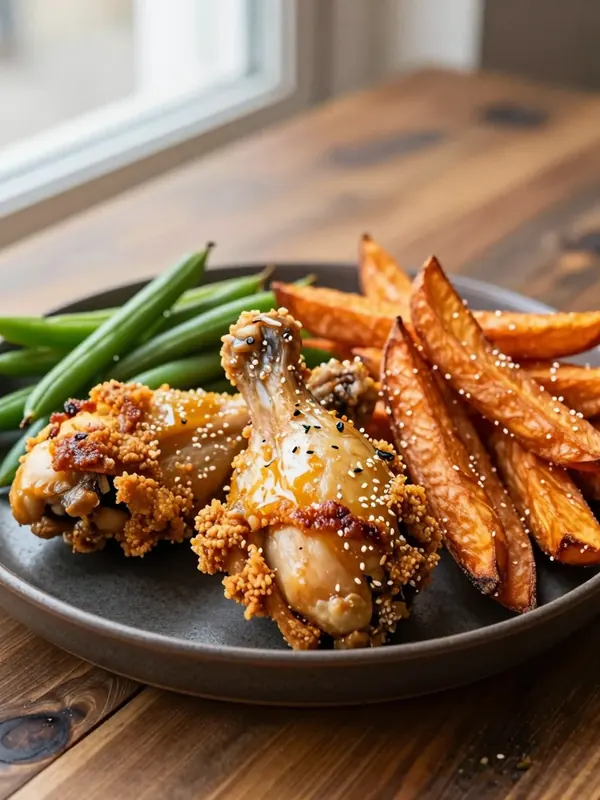
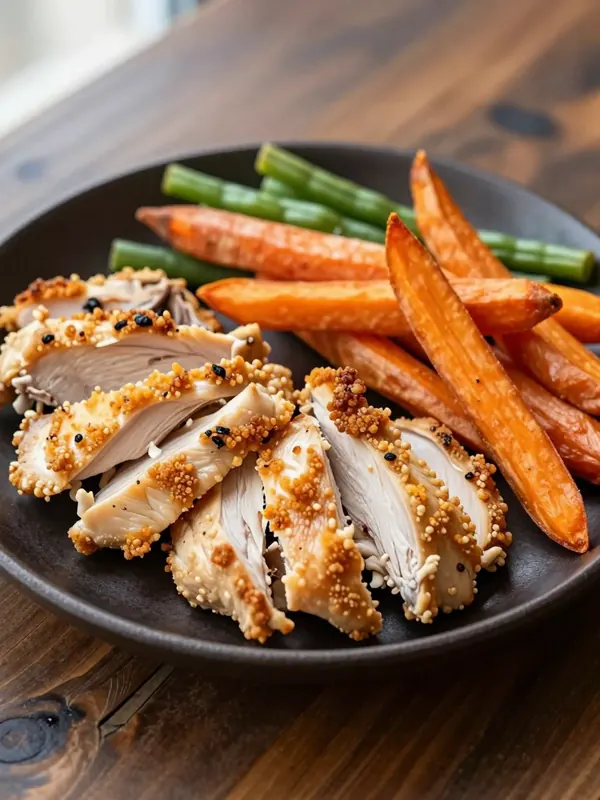
Zwei Food-Fotos neu: Eiermuffins und Hähnchen mit Süßkartoffel
Eiermuffins jetzt ohne Teigrand in Silikonförmchen, Hähnchen als Streifen
ohne Knochen. Offline-Speicher auf Version 3, damit Handys die Bilder neu laden.

diff --git a/sw.js b/sw.js
@@ -1,6 +1,6 @@
 // Offline-Speicher. Bei jeder Änderung an der App die Versionsnummer erhöhen,
 // sonst bekommen installierte Handys die neuen Dateien nicht.
-const CACHE = 'projekt100-v2';
+const CACHE = 'projekt100-v3';
 const CORE = [
   './',
   './index.html',

diff --git a/tools/make_images.py b/tools/make_images.py
@@ -32,7 +32,7 @@ DISHES = {
     "shake_fruehstueck": "a tall glass of creamy vanilla protein milkshake next to a whole banana",
     "overnight_oats": "a glass jar of overnight oats layered with white skyr yogurt and mixed berries",
     "ruehrei_brot": "scrambled eggs with wilted spinach on a plate with two slices of whole grain bread",
-    "eiermuffins": "baked egg muffins with diced red and yellow bell pepper and ham, one slice of whole grain bread beside",
+    "eiermuffins": "six crustless fluffy egg bites made only of baked whisked egg, visible diced red and yellow bell pepper and ham inside, sitting in colorful silicone muffin cups, one slice of whole grain bread beside, no pastry, no crust, no tart shell",
     "huettenkaese_brot": "two open sandwiches of whole grain bread with cottage cheese and turkey slices, cucumber and carrot sticks on the side",
     "skyr_apfel": "a bowl of skyr yogurt topped with diced apple, oat flakes and chopped walnuts",
     "bowl_haehnchen": "a rice bowl with diced chicken breast and steamed broccoli, carrots and peas, glossy soy sauce",
@@ -43,7 +43,7 @@ DISHES = {
     "abend_brust_reis": "sliced grilled chicken breast with paprika seasoning, white rice and broccoli",
     "abend_schenkel_reis": "roasted chicken thigh fillets with white rice and roasted brussels sprouts",
     "haehnchen_wrap": "two tortilla wraps filled with crispy chicken strips, bell peppers and garlic yogurt sauce, cut in half",
-    "haehnchen_suesskartoffel": "crispy chicken thighs with sweet potato fries and green beans",
+    "haehnchen_suesskartoffel": "sliced boneless chicken thigh fillet strips, golden crispy meat without any bone, next to orange sweet potato fries and green beans, no bones, no drumsticks, no chicken legs",
     "pute_paprika_reis": "one-pot turkey and rice with red bell peppers in tomato sauce, paprika seasoning",
     "pute_gyros": "turkey gyros strips with roasted potatoes, bell peppers and a small bowl of tzatziki",
     "abend_huefte": "sliced medium beef steak with roasted potato cubes and green beans",
